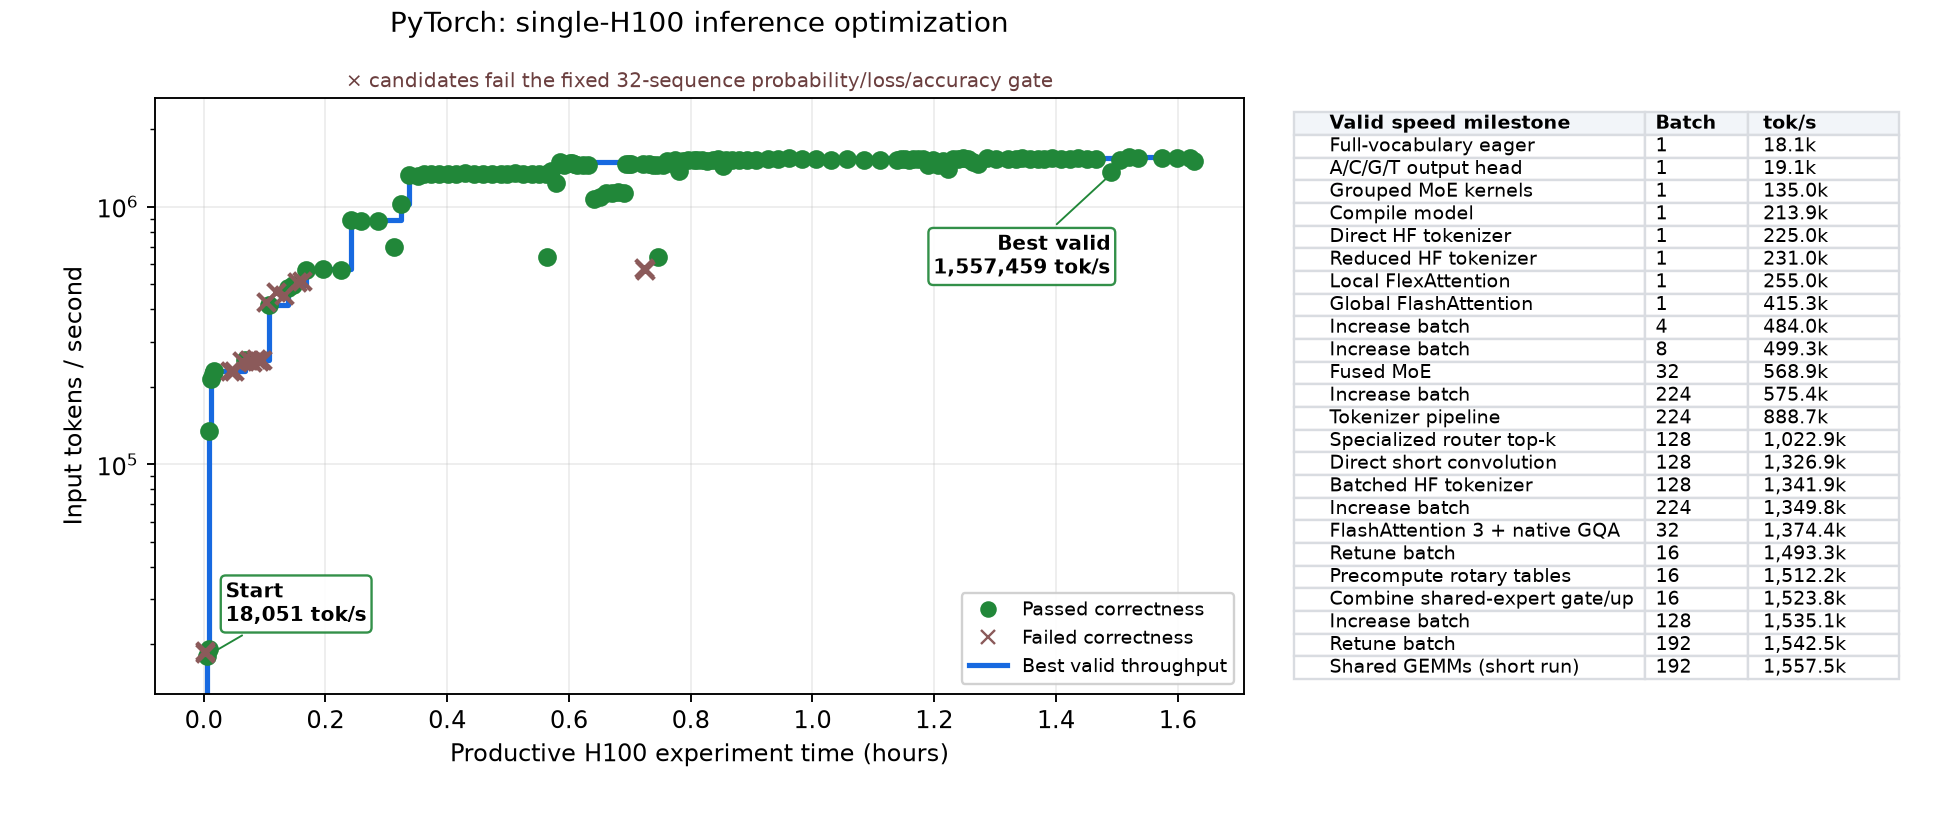
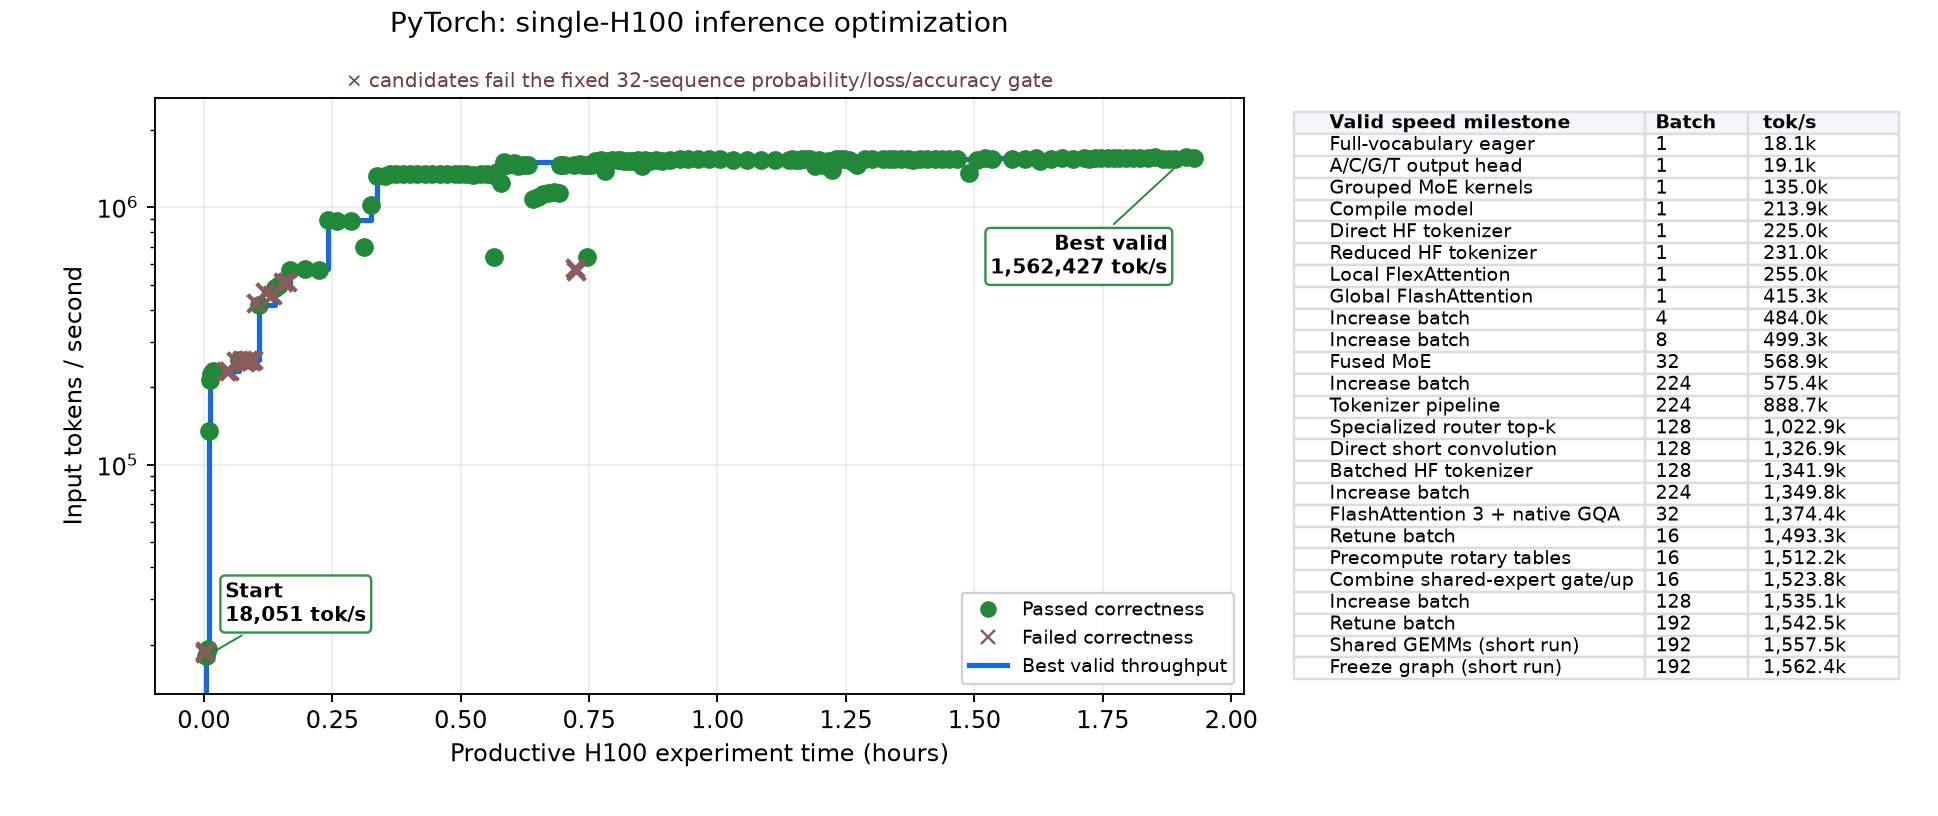
Record confirmed Torch shared projection gain

diff --git a/experiments/exp586_plantcad2_moe/src/exp586_moe/inference/plot_progress.py b/experiments/exp586_plantcad2_moe/src/exp586_moe/inference/plot_progress.py
@@ -53,6 +53,7 @@ _DISPLAY_NAMES = {
     "Torch-rope-concat-large-b128": "Increase batch",
     "Torch-rope-concat-extended-b192": "Retune batch",
     "Torch-r5-combined-shared-b192": "Shared GEMMs (short run)",
+    "Torch-r6-combined-freezing-b192": "Freeze graph (short run)",
     "naive-full-vocab-eager": "Naive eager, full vocabulary",
     "exact-acgt-head-eager": "Project only A/C/G/T",
     "exact-acgt-head-compiled": "+ compile engine",
